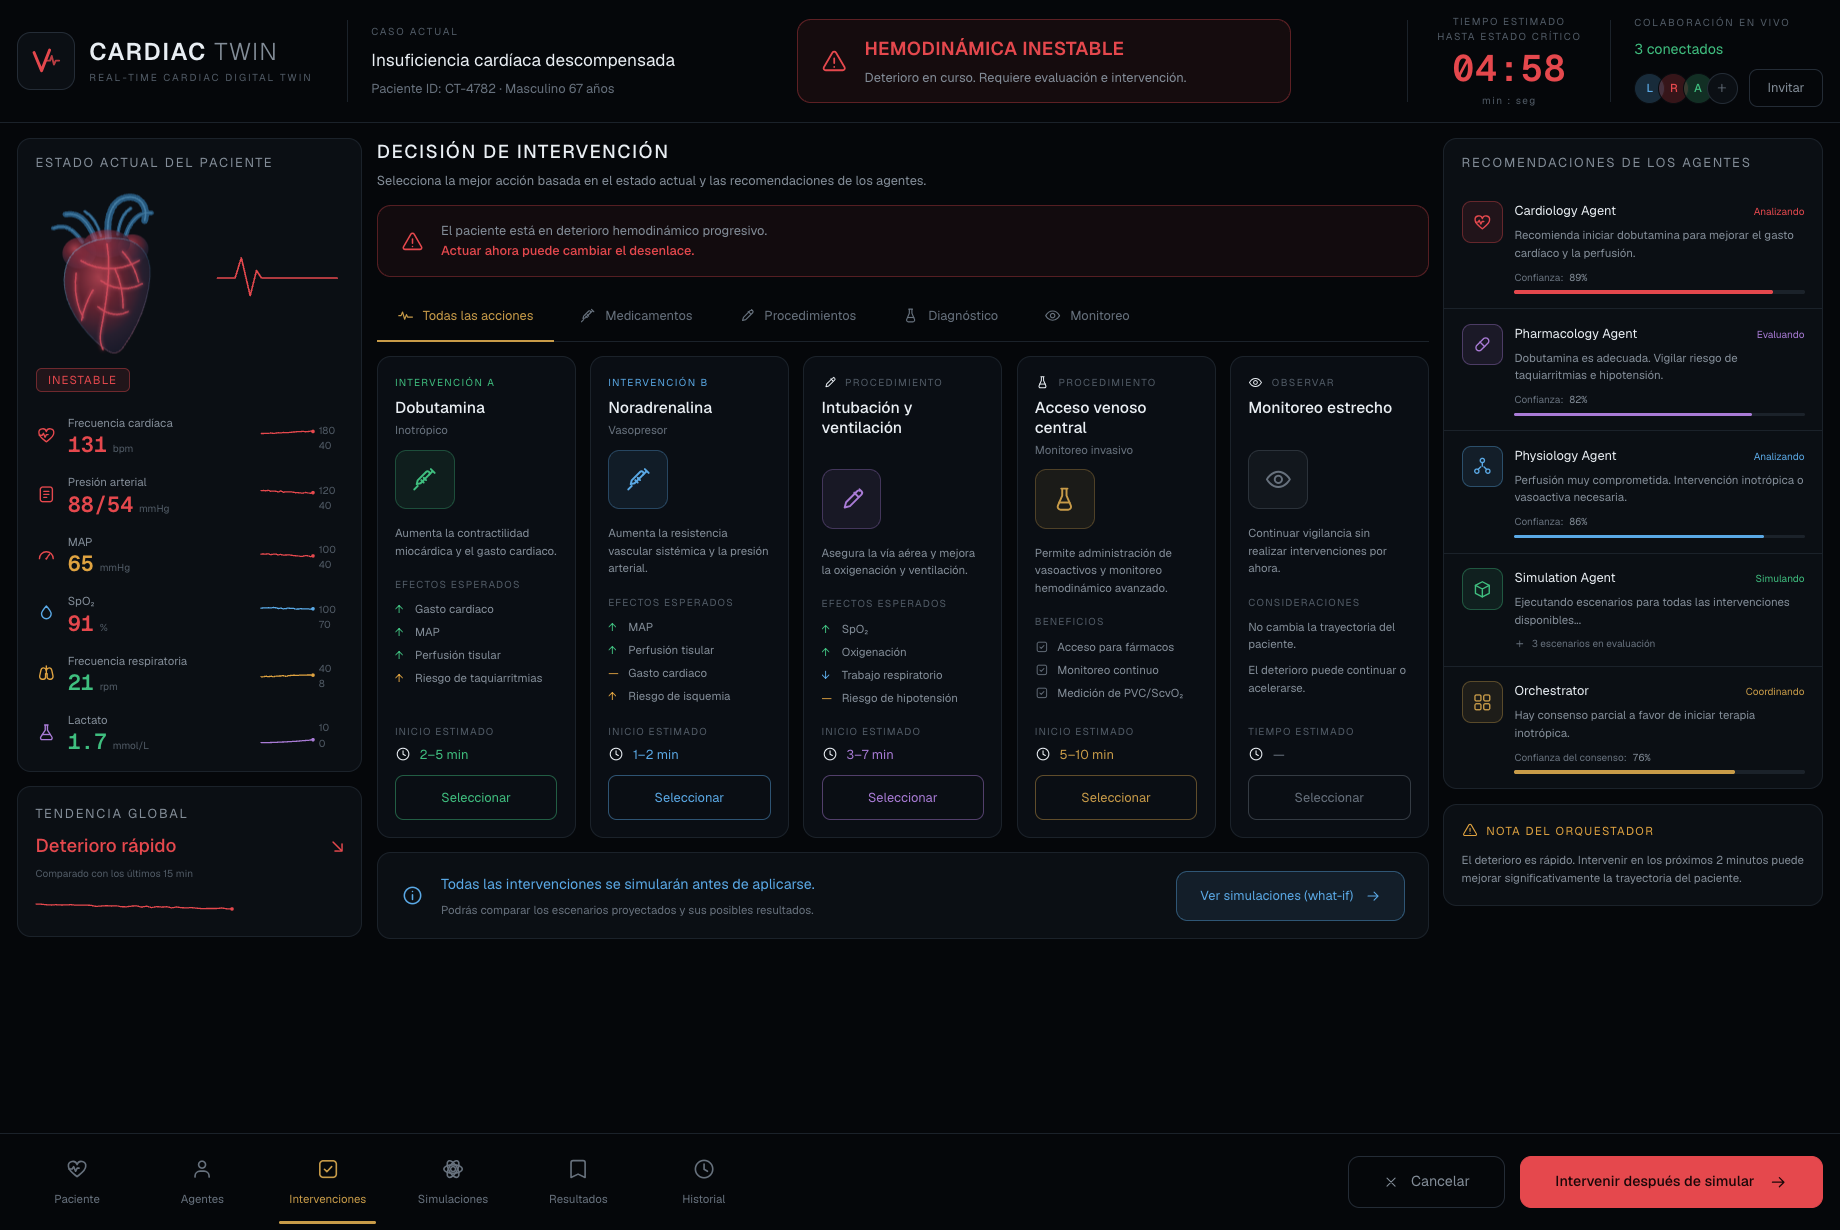
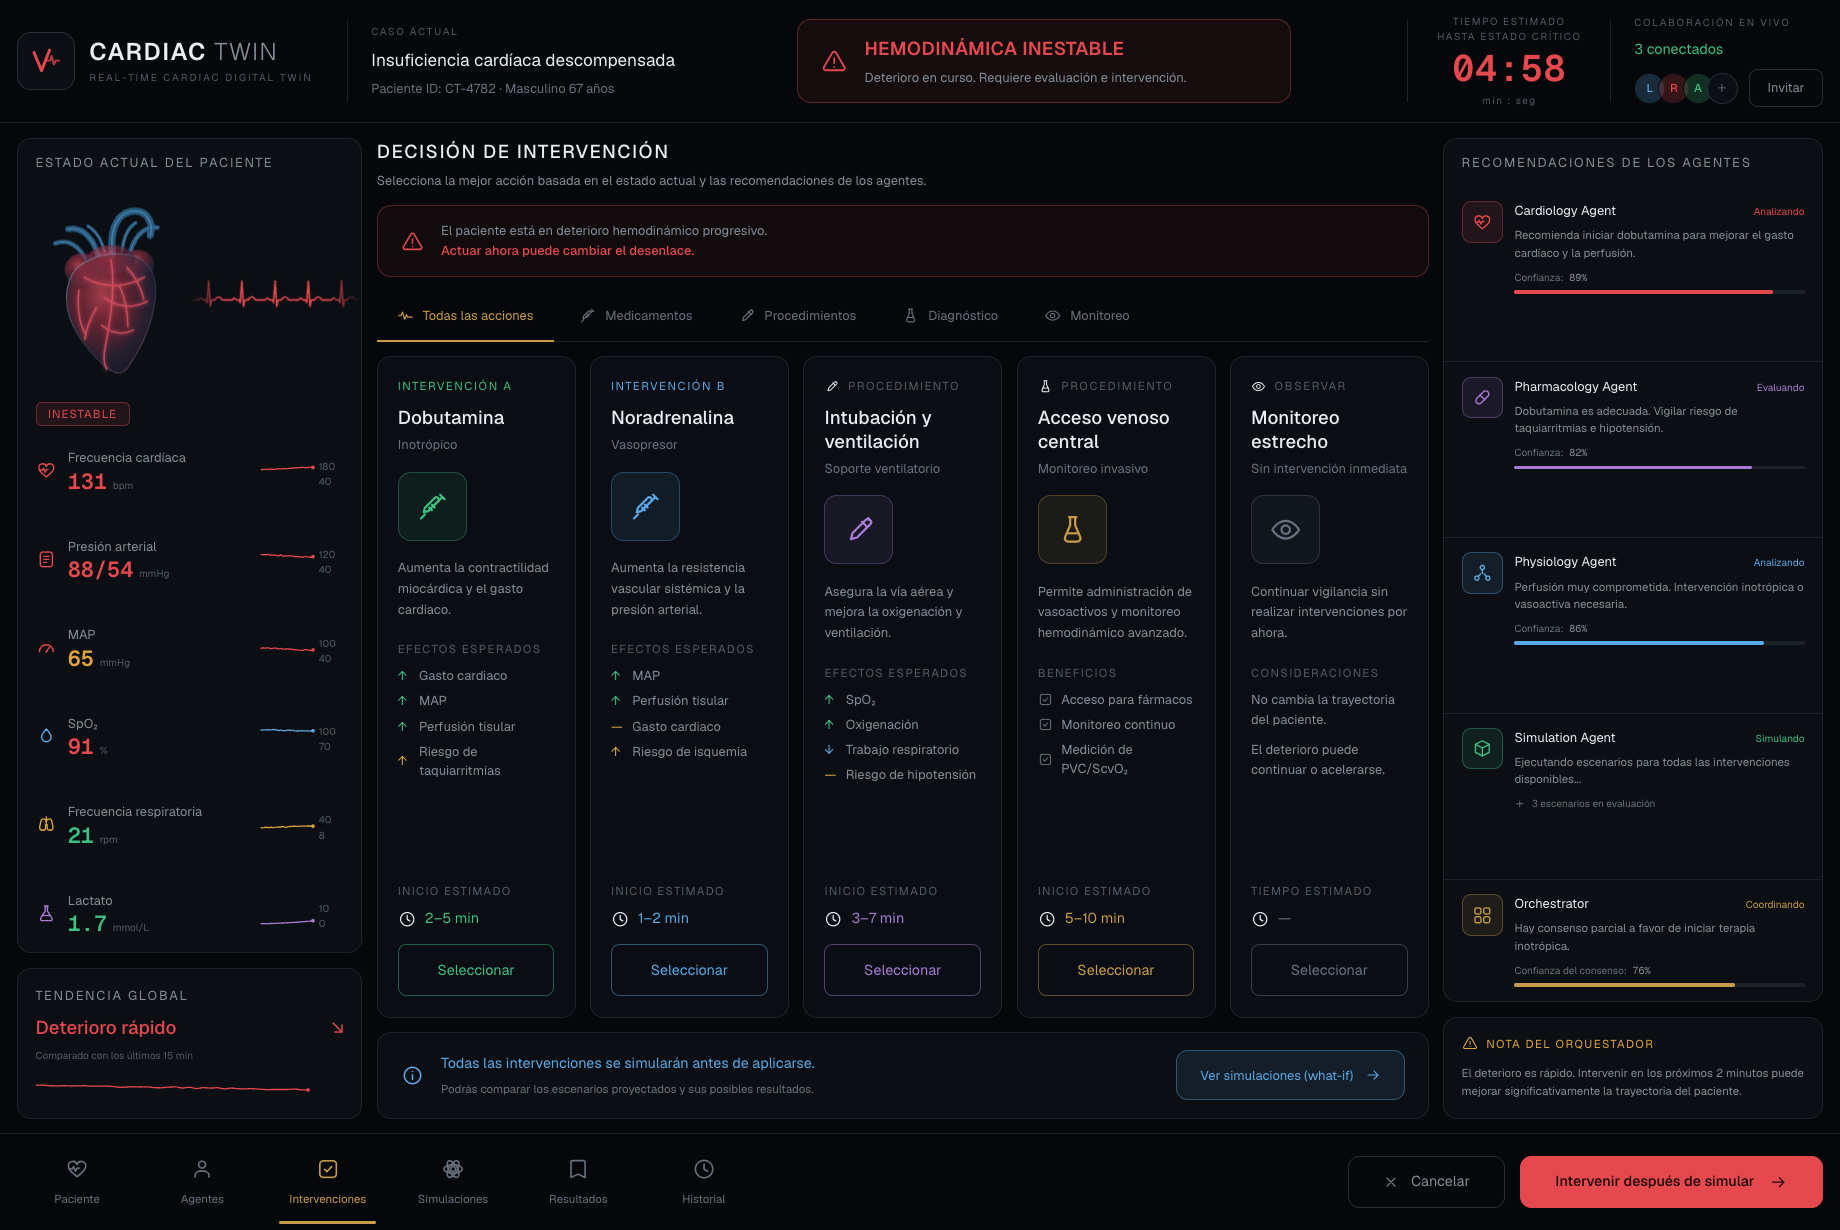
Frontend: arreglar el layout de intervenciones
- El ECG no se veía: EcgStrip trae su propio `relative` y en Tailwind gana
  sobre un `absolute` pasado por className, así que quedaba en flujo normal
  detrás del corazón. Ahora va envuelto en el contenedor posicionado.
- El corazón se salía por arriba de su caja: reencuadrado dentro del alto
  disponible.
- Tipografía de las tarjetas subida un escalón (estaba a ~11 px en pantalla,
  ilegible) y más aire interno.
- Las tres columnas terminaban al 74-84 % del alto y dejaban un tercio de
  pantalla vacío. Ahora reparten el sobrante dentro de las tarjetas.
- Subtítulo en todas las acciones: sin él las tarjetas quedaban descuadradas
  entre sí.

diff --git a/Frontend/src/components/interventions/InterventionsScreen.tsx b/Frontend/src/components/interventions/InterventionsScreen.tsx
@@ -39,6 +39,7 @@ import {
 } from "@/components/icons";
 import { BottomNav, TopBar } from "@/components/shell/Shell";
 import { BeatingHeart } from "@/components/monitor/BeatingHeart";
+import { EcgStrip } from "@/components/monitor/EcgStrip";
 import { Sparkline } from "@/components/monitor/Sparkline";
 
 const TONE: Record<Level, string> = {
@@ -142,33 +143,29 @@ function PatientColumn({
 
   return (
     <div className="flex min-h-0 flex-col gap-2.5">
-      <Card className="flex flex-col">
+      <Card className="flex min-h-0 flex-1 flex-col">
         <div className="shrink-0 px-3 py-2.5 text-[0.5625rem] tracking-[0.14em] text-mid">
           ESTADO ACTUAL DEL PACIENTE
         </div>
 
-        <div className="relative h-[7.5rem] shrink-0">
+        <div className="relative h-[9rem] shrink-0 overflow-hidden">
           <BeatingHeart
             hr={vitals.hr}
             rhythm={vitals.rhythm}
             strokeVolume={vitals.sv}
             perfusion={vitals.perfusion_index}
-            className="absolute top-1/2 left-[26%] h-[104%] w-[44%] -translate-x-1/2 -translate-y-1/2"
+            className="absolute top-1/2 left-[27%] h-[92%] w-[46%] -translate-x-1/2 -translate-y-1/2"
           />
-          <svg
-            viewBox="0 0 100 40"
-            className="absolute top-1/2 right-2 h-[2.2rem] w-[42%] -translate-y-1/2"
-            fill="none"
-          >
-            <path
-              d="M2 24h14l5-16 7 30 5-20 4 6h60"
-              stroke="var(--crit)"
-              strokeWidth="1.6"
-              strokeLinecap="round"
-              strokeLinejoin="round"
-              vectorEffect="non-scaling-stroke"
+          {/* EcgStrip trae su propio `relative`, que en Tailwind gana sobre
+              un `absolute` pasado por className: hay que envolverlo. */}
+          <div className="absolute top-1/2 right-0 h-[3.6rem] w-[50%] -translate-y-1/2">
+            <EcgStrip
+              hr={vitals.hr}
+              rhythm={vitals.rhythm}
+              amplitude={Math.min(1.1, Math.max(0.5, vitals.sv / 85))}
+              className="h-full w-full"
             />
-          </svg>
+          </div>
         </div>
 
         <div className="shrink-0 px-3 pb-1">
@@ -177,7 +174,7 @@ function PatientColumn({
           </span>
         </div>
 
-        <div className="flex flex-col gap-3 px-3 pt-2.5 pb-3">
+        <div className="flex min-h-0 flex-1 flex-col justify-between px-3 pt-2.5 pb-3">
           {VITALS.map((v) => {
             const isBp = v.key === "bp";
             const raw = isBp
@@ -197,7 +194,7 @@ function PatientColumn({
                   <Icon className="h-[0.9rem] w-[0.9rem]" />
                 </span>
                 <div className="min-w-0 flex-1">
-                  <div className="truncate text-[0.5rem] text-mid">
+                  <div className="truncate text-[0.5625rem] text-mid">
                     {v.label}
                   </div>
                   <div className="mt-0.5 flex items-baseline gap-1">
@@ -263,7 +260,7 @@ function PatientColumn({
             min={40}
             max={100}
             color="var(--crit)"
-            width={196}
+            width={272}
             height={26}
           />
         </div>
@@ -331,7 +328,7 @@ function ActionColumn({
         })}
       </div>
 
-      <div className="mt-2.5 grid grid-cols-5 gap-2.5">
+      <div className="mt-2.5 grid min-h-0 flex-1 grid-cols-5 gap-2.5">
         {shown.map((a) => (
           <ActionCard
             key={a.id}
@@ -378,7 +375,7 @@ function ActionCard({
 
   return (
     <div
-      className="flex min-w-0 flex-col rounded-[0.6rem] border bg-[#0a0e14] p-3 transition-colors"
+      className="flex min-w-0 flex-col rounded-[0.6rem] border bg-[#0a0e14] p-3.5 transition-colors"
       style={{
         borderColor: chosen ? a.color : "var(--line)",
         boxShadow: chosen
@@ -394,37 +391,35 @@ function ActionCard({
           />
         )}
         <span
-          className="truncate text-[0.4375rem] tracking-[0.14em]"
+          className="truncate text-[0.5rem] tracking-[0.14em]"
           style={{ color: isIntervention ? a.color : "var(--text-dim)" }}
         >
           {isIntervention ? `${a.kind} ${a.letter}` : a.kind}
         </span>
       </div>
 
-      <div className="mt-1.5 text-[0.6875rem] leading-tight font-medium text-hi">
+      <div className="mt-2 text-[0.8125rem] leading-tight font-medium text-hi">
         {a.title}
       </div>
-      <div className="mt-0.5 h-[0.75rem] text-[0.5rem] text-lo">
-        {a.subtitle ?? ""}
-      </div>
+      <div className="mt-1 text-[0.5625rem] text-lo">{a.subtitle}</div>
 
       {/* el icono grande ancla visualmente cada tarjeta */}
       <div
-        className="mt-2 flex h-[2.6rem] w-[2.6rem] items-center justify-center rounded-[0.5rem] border"
+        className="mt-3 flex h-[3rem] w-[3rem] items-center justify-center rounded-[0.55rem] border"
         style={{
           borderColor: `color-mix(in srgb, ${a.color} 30%, transparent)`,
           background: `color-mix(in srgb, ${a.color} 9%, transparent)`,
           color: a.color,
         }}
       >
-        <Icon className="h-[1.25rem] w-[1.25rem]" />
+        <Icon className="h-[1.45rem] w-[1.45rem]" />
       </div>
 
-      <p className="mt-2.5 text-[0.5rem] leading-[1.55] text-mid">
+      <p className="mt-3 text-[0.5625rem] leading-[1.6] text-mid">
         {a.description}
       </p>
 
-      <div className="mt-3 text-[0.4375rem] tracking-[0.12em] text-dim">
+      <div className="mt-3.5 text-[0.5rem] tracking-[0.12em] text-dim">
         {a.sectionTitle}
       </div>
 
@@ -440,9 +435,9 @@ function ActionCard({
           {a.checks.map((c) => (
             <li
               key={c}
-              className="flex items-center gap-1.5 text-[0.5rem] text-mid"
+              className="flex items-center gap-1.5 text-[0.5625rem] text-mid"
             >
-              <CheckSquare className="h-[0.6rem] w-[0.6rem] shrink-0 text-lo" />
+              <CheckSquare className="h-[0.65rem] w-[0.65rem] shrink-0 text-lo" />
               {c}
             </li>
           ))}
@@ -451,7 +446,7 @@ function ActionCard({
       {a.notes && (
         <ul className="mt-1.5 space-y-1.5">
           {a.notes.map((n) => (
-            <li key={n} className="text-[0.5rem] leading-[1.5] text-mid">
+            <li key={n} className="text-[0.5625rem] leading-[1.6] text-mid">
               {n}
             </li>
           ))}
@@ -459,18 +454,18 @@ function ActionCard({
       )}
 
       <div className="mt-auto pt-3">
-        <div className="text-[0.4375rem] tracking-[0.12em] text-dim">
+        <div className="text-[0.5rem] tracking-[0.12em] text-dim">
           {a.timeLabel}
         </div>
-        <div className="mt-1 flex items-center gap-1.5">
-          <Clock className="h-[0.7rem] w-[0.7rem]" style={{ color: a.color }} />
-          <span className="text-[0.5625rem]" style={{ color: a.color }}>
+        <div className="mt-1.5 flex items-center gap-1.5">
+          <Clock className="h-[0.8rem] w-[0.8rem]" style={{ color: a.color }} />
+          <span className="text-[0.625rem]" style={{ color: a.color }}>
             {a.time}
           </span>
         </div>
         <button
           onClick={onChoose}
-          className="mt-2 w-full rounded-md border py-2 text-[0.5625rem] transition-colors"
+          className="mt-2.5 w-full rounded-md border py-2.5 text-[0.625rem] transition-colors"
           style={{
             borderColor: `color-mix(in srgb, ${a.color} 45%, transparent)`,
             color: a.color,
@@ -494,8 +489,8 @@ function EffectRow({ e }: { e: Effect }) {
       ? "var(--info)"
       : "var(--ok)";
   return (
-    <li className="flex items-center gap-1.5 text-[0.5rem] text-mid">
-      <span className="w-[0.5rem] shrink-0" style={{ color }}>
+    <li className="flex items-center gap-1.5 text-[0.5625rem] text-mid">
+      <span className="w-[0.55rem] shrink-0" style={{ color }}>
         {glyph}
       </span>
       {e.label}
@@ -508,11 +503,11 @@ function EffectRow({ e }: { e: Effect }) {
 function AgentColumn() {
   return (
     <div className="flex min-h-0 flex-col gap-2.5">
-      <Card className="flex flex-col">
+      <Card className="flex min-h-0 flex-1 flex-col">
         <div className="shrink-0 px-3 py-2.5 text-[0.5625rem] tracking-[0.14em] text-mid">
           RECOMENDACIONES DE LOS AGENTES
         </div>
-        <div className="flex flex-col">
+        <div className="flex min-h-0 flex-1 flex-col justify-between">
           {AGENT_RECOMMENDATIONS.map((r, i) => {
             const meta = AGENT_META.find((m) => m.id === r.id)!;
             const Icon = AGENT_ICON[r.id as keyof typeof AGENT_ICON];

diff --git a/Frontend/src/lib/interventions.ts b/Frontend/src/lib/interventions.ts
@@ -92,6 +92,7 @@ export const ACTIONS: Action[] = [
     kind: "PROCEDIMIENTO",
     icon: "tube",
     title: "Intubación y ventilación",
+    subtitle: "Soporte ventilatorio",
     description: "Asegura la vía aérea y mejora la oxigenación y ventilación.",
     engineKey: null,
     sectionTitle: "EFECTOS ESPERADOS",
@@ -129,6 +130,7 @@ export const ACTIONS: Action[] = [
     kind: "OBSERVAR",
     icon: "eye",
     title: "Monitoreo estrecho",
+    subtitle: "Sin intervención inmediata",
     description: "Continuar vigilancia sin realizar intervenciones por ahora.",
     engineKey: "none",
     sectionTitle: "CONSIDERACIONES",
